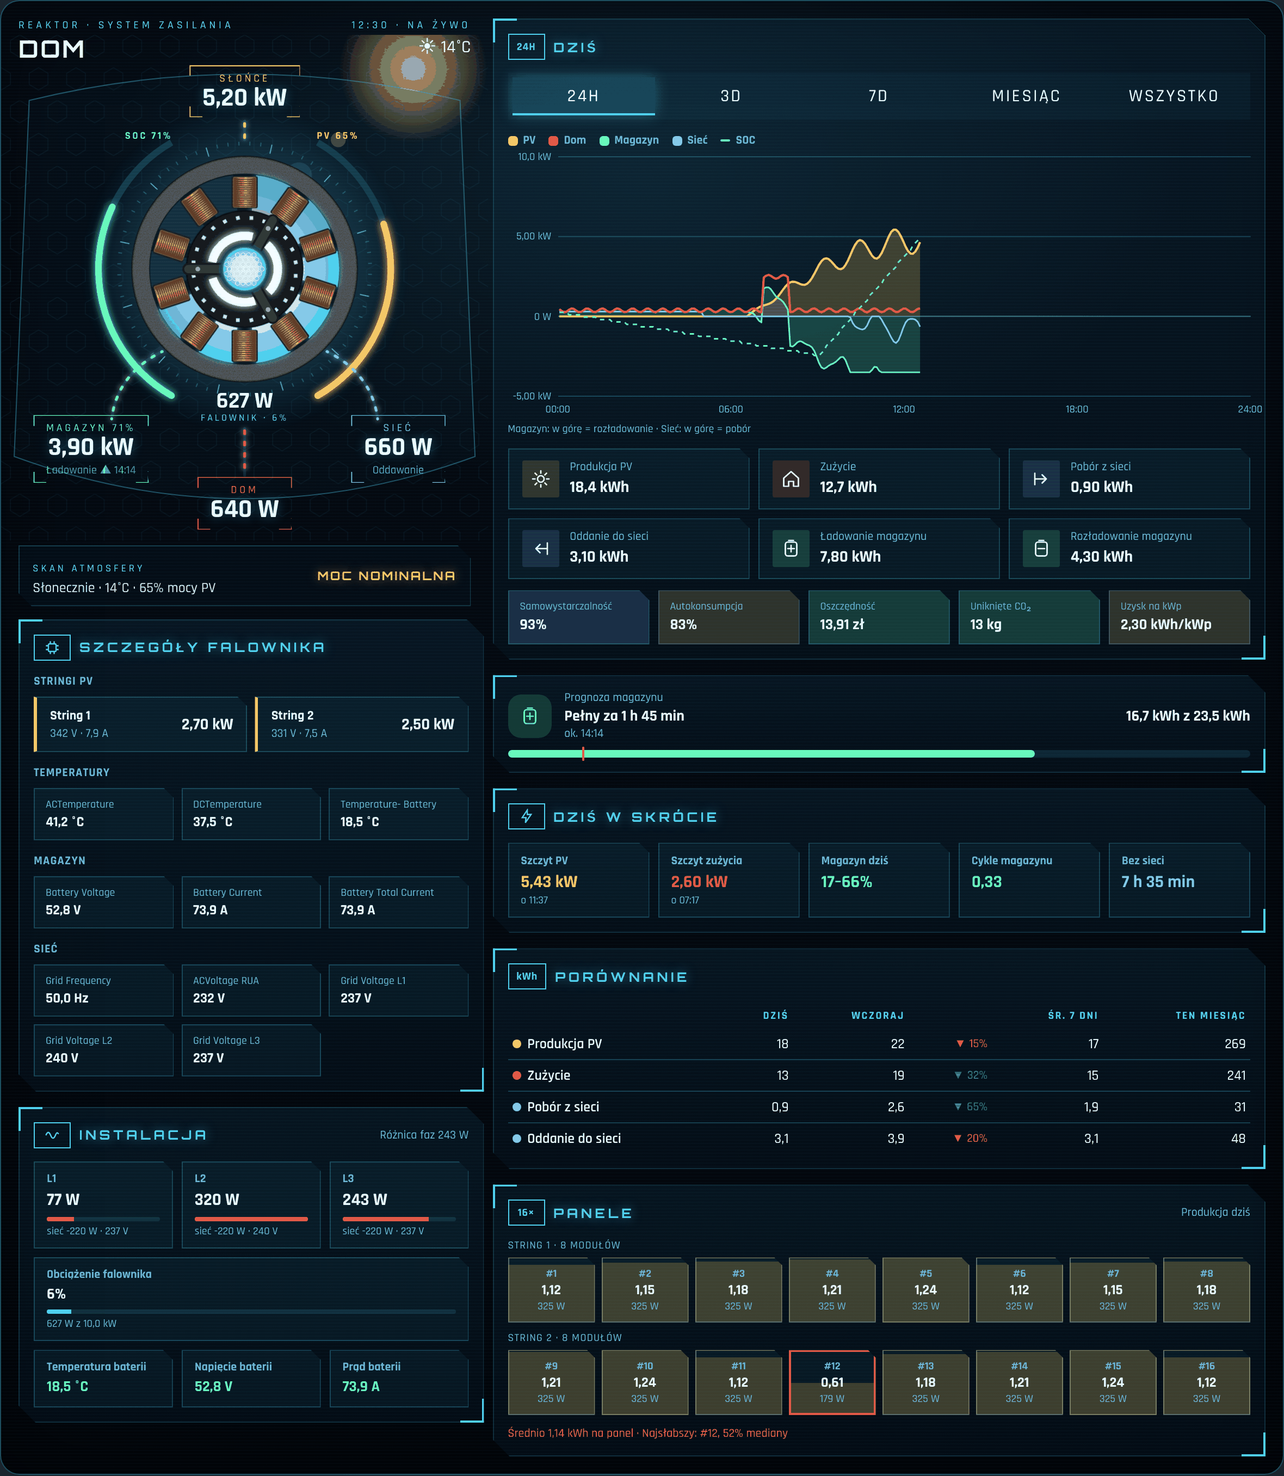
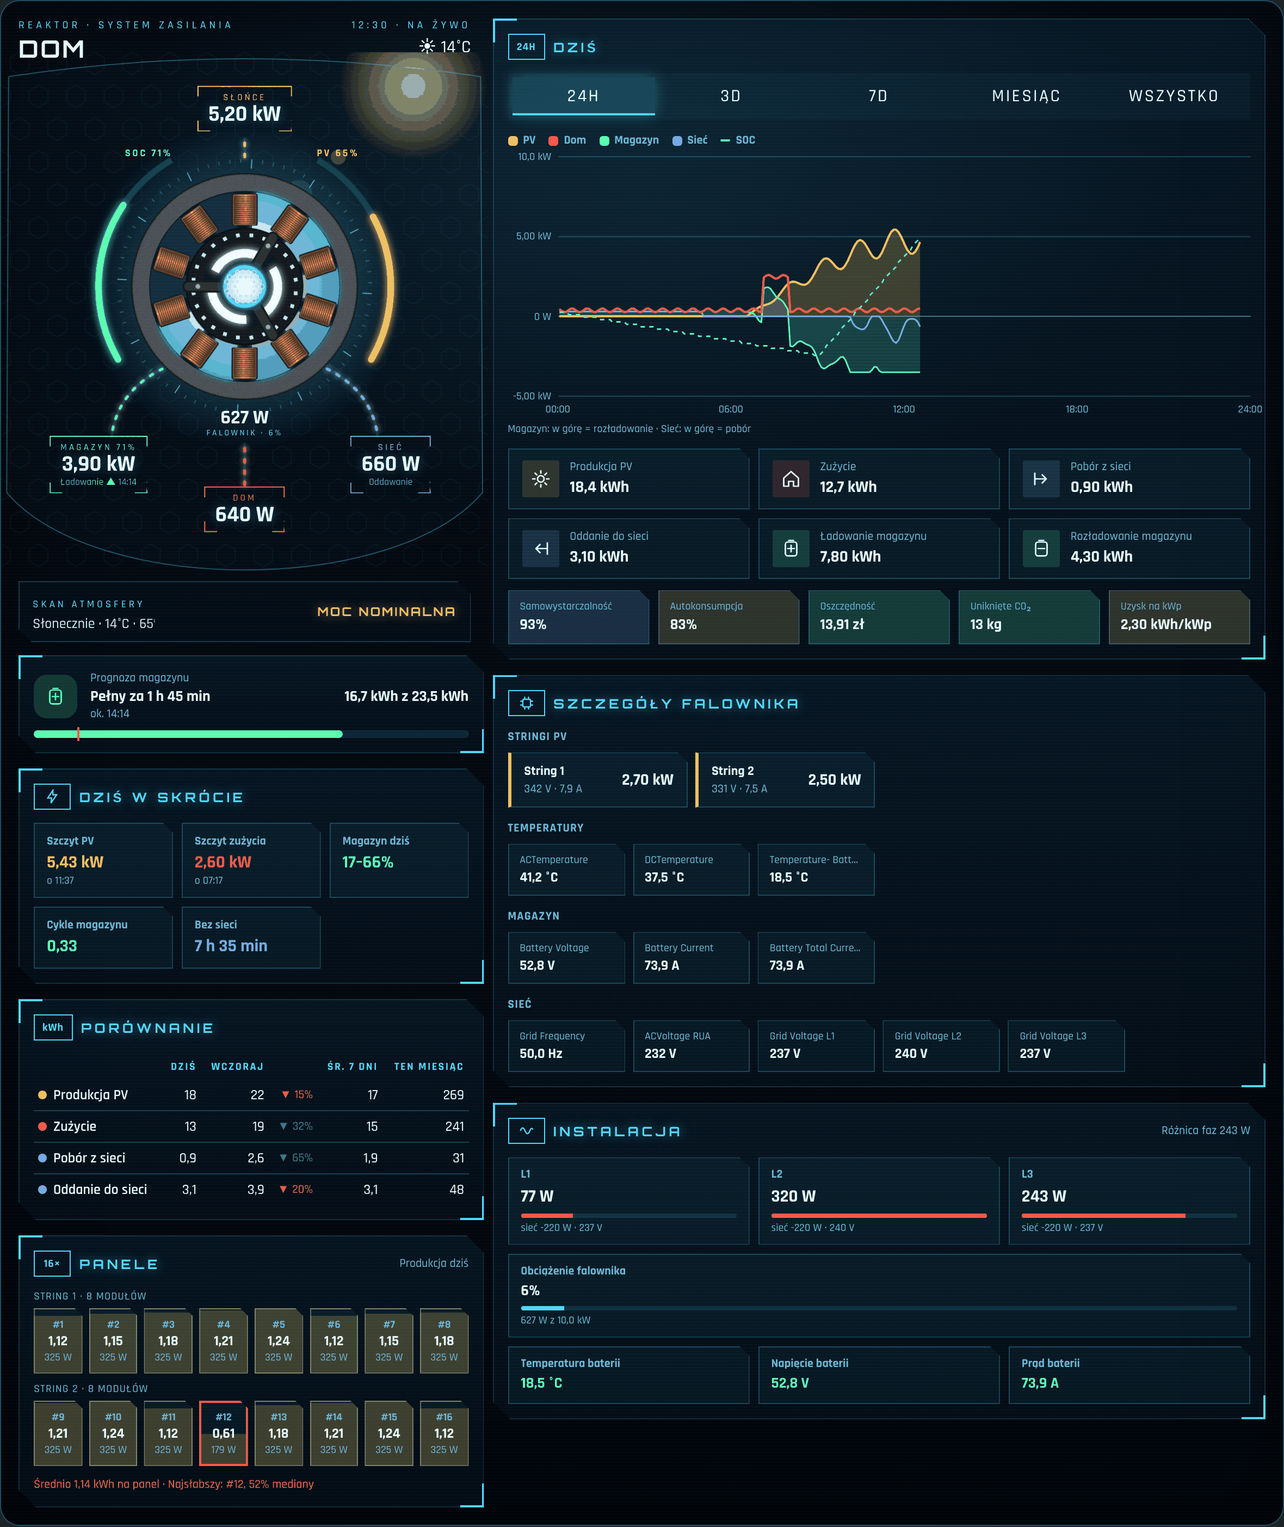
Reactor: visor frame and readouts scale together
The readouts are sized in the visor's container units and the frame runs
below the home readout, so nothing crosses at any card width.

Claude-Session: https://claude.ai/code/session_0152SgGeW2oeSktbBVvrriod

diff --git a/solar-flow-card.js b/solar-flow-card.js
@@ -3436,7 +3436,7 @@ function reactorWeather(m) {
   } else if (clear) {
     g += '<circle class="rx-sun" cx="440" cy="36" r="80" fill="url(#rx-flare)"/><circle cx="360" cy="112" r="8" fill="#ffe7b0" opacity=".22"/><circle cx="318" cy="150" r="14" fill="#9fe6ff" opacity=".1"/>';
   }
-  if (w?.grey) g += `<rect width="520" height="540" fill="#7d8a99" opacity="${(w.grey * 0.35).toFixed(2)}"/>`;
+  if (w?.grey) g += `<rect width="520" height="560" fill="#7d8a99" opacity="${(w.grey * 0.35).toFixed(2)}"/>`;
   if (w?.fog) g += '<g class="rx-fog"><ellipse cx="160" cy="190" rx="260" ry="60" fill="url(#rx-haze)"/><ellipse cx="380" cy="390" rx="280" ry="70" fill="url(#rx-haze)"/></g>';
   if (w?.rain) {
     const n = w.rain > 1 ? 60 : 32;
@@ -3445,9 +3445,9 @@ function reactorWeather(m) {
   }
   if (w?.snow) {
     glass += `<g class="rx-snow">${Array.from({ length: 36 }, (_, i) => `<circle style="--d:-${((i * 0.53) % 7).toFixed(2)}s" cx="${(i * 131) % 520}" cy="${(i * 53) % 300}" r="${i % 3 ? 1.5 : 2.3}"/>`).join("")}</g>`;
-    glass += '<rect width="520" height="540" fill="url(#rx-frost)"/>';
+    glass += '<rect width="520" height="560" fill="url(#rx-frost)"/>';
   }
-  if (w?.lightning) glass += '<rect class="rx-flash" width="520" height="540" fill="#dfe9ff"/>';
+  if (w?.lightning) glass += '<rect class="rx-flash" width="520" height="560" fill="#dfe9ff"/>';
   return { phase, sky: g, glass };
 }
 
@@ -3479,7 +3479,7 @@ function renderReactor(m) {
     ? [t.weatherNames?.[w.condition] || w.condition, isNum(w.temperature) ? `${formatNumber(w.temperature, locale, 0)}${w.unit}` : "", config.showSolar ? fill(t.reactorPvShare, { pct }) : ""].filter(Boolean).map(escapeHtml).join(" · ")
     : liveSentence(m) || escapeHtml(config.showSolar ? fill(t.reactorPvShare, { pct }) : t.reactorStandby);
   const ticks = Array.from({ length: 72 }, (_, i) => `<line x1="${cx}" y1="${cy - 136}" x2="${cx}" y2="${cy - 136 + (i % 6 ? 4 : 10)}" transform="rotate(${i * 5} ${cx} ${cy})" opacity="${i % 6 ? 0.35 : 0.8}"/>`).join("");
-  const pos = (x, y) => `left:${((x / 520) * 100).toFixed(2)}%;top:${((y / 540) * 100).toFixed(2)}%`;
+  const pos = (x, y) => `left:${((x / 520) * 100).toFixed(2)}%;top:${((y / 560) * 100).toFixed(2)}%`;
   const node = (cls, x, y, label, value, note, attr) => `
     <button class="rx-node ${cls}" style="${pos(x, y)}" ${attr}>
       <i></i><small>${escapeHtml(label)}</small><b>${escapeHtml(value)}</b>${note ? `<em>${escapeHtml(note)}</em>` : ""}
@@ -3497,7 +3497,7 @@ function renderReactor(m) {
           ${w ? `<button class="rx-wx" ${entityAttr(w.entityId)}>${escapeHtml(REACTOR_WEATHER_ICON[w.condition] || "")} ${isNum(w.temperature) ? escapeHtml(`${formatNumber(w.temperature, locale, 0)}${w.unit}`) : ""}</button>` : ""}</div>
       </header>
       <div class="rx-visor">
-        <svg viewBox="0 0 520 540" preserveAspectRatio="xMidYMid slice" aria-hidden="true">
+        <svg viewBox="0 0 520 560" preserveAspectRatio="xMidYMid slice" aria-hidden="true">
           <defs>
             <linearGradient id="rx-cu" x1="0" y1="0" x2="1" y2="0"><stop offset="0" stop-color="#6b2f0e"/><stop offset=".35" stop-color="#c9773d"/><stop offset=".55" stop-color="#e8a36a"/><stop offset="1" stop-color="#6b2f0e"/></linearGradient>
             <radialGradient id="rx-seg" cx="260" cy="250" r="101" gradientUnits="userSpaceOnUse"><stop offset=".3" stop-color="#fff"/><stop offset=".62" stop-color="#bfefff"/><stop offset="1" stop-color="#4cc2ff"/></radialGradient>
@@ -3511,8 +3511,8 @@ function renderReactor(m) {
             <filter id="rx-tex"><feTurbulence type="fractalNoise" baseFrequency="1.2" numOctaves="2" result="n"/><feColorMatrix in="n" values="0 0 0 0 .35  0 0 0 0 .38  0 0 0 0 .42  0 0 0 .55 0"/><feComposite in2="SourceGraphic" operator="in"/></filter>
           </defs>
           ${sky.sky}
-          <rect width="520" height="540" fill="url(#rx-hex)"/>
-          <path class="rx-frame" pathLength="1" d="M14 30Q260 -10 506 30L510 470Q260 600 10 470Z"/>
+          <rect width="520" height="560" fill="url(#rx-hex)"/>
+          <path class="rx-frame" pathLength="1" d="M8 26Q260 -12 512 26L514 470C420 580 100 580 6 470Z"/>
           <g class="rx-boot-ticks"><g class="rx-ticks">${ticks}</g></g>
           ${/* The gauges stop above the battery and grid flow lines. */ ""}
           ${config.showBattery ? `<path class="rx-track" d="${arc(156, 330, 240)}"/>${soc >= 1 ? `<path class="rx-gauge battery" pathLength="1" d="${arc(156, 240, 240 + 0.9 * soc)}"/>` : ""}` : ""}
@@ -3523,16 +3523,16 @@ function renderReactor(m) {
             ${config.showSolar ? flowPath("M260 92 L260 112", live.solarActive, false, "pv") : ""}
             ${config.showBattery ? flowPath("M118 410 Q124 362 172 338", live.chargeActive || live.dischargeActive, live.chargeActive, "battery") : ""}
             ${flowPath("M402 410 Q396 362 348 338", live.importActive || live.exportActive, live.exportActive, "grid")}
-            ${flowPath("M260 420 L260 470", live.loadActive, false, "load")}
+            ${flowPath("M260 418 L260 462", live.loadActive, false, "load")}
           </g>
           <g class="rx-reactor">${reactorCore(heat, live)}</g>
           ${isNum(m.intro) ? `<g class="rx-bootseg">${Array.from({ length: 10 }, (_, i) => { const a = i * 36; const P2 = (rr, aa) => P(rr, aa).map((v) => v.toFixed(1)).join(" "); return `<path style="--i:${i}" d="M${P2(101, a + 7)}A101 101 0 0 1 ${P2(101, a + 29)}L${P2(63, a + 29)}A63 63 0 0 0 ${P2(63, a + 7)}Z"/>`; }).join("")}</g>` : ""}
           ${sky.glass}
         </svg>
         ${config.showSolar ? node("pv", 260, 60, t.sun, formatPower(live.solar, locale), "", entityAttr(m.ids.live.solar)) : ""}
-        ${config.showBattery ? node("battery", 96, 442, batteryLabel(m), formatPower(batteryFlow, locale), [batteryStatus(m), batteryWhenShort(m)].filter(Boolean).join(" "), entityAttr(batteryEntityId(m))) : ""}
-        ${node("grid", 424, 442, t.grid, formatPower(gridValue, locale), gridStatus(m), entityAttr(gridEntityId(m)))}
-        ${node("load", 260, 500, t.home, formatPower(live.load, locale), "", entityAttr(m.ids.live.load))}
+        ${config.showBattery ? node("battery", 104, 440, batteryLabel(m), formatPower(batteryFlow, locale), [batteryStatus(m), batteryWhenShort(m)].filter(Boolean).join(" "), entityAttr(batteryEntityId(m))) : ""}
+        ${node("grid", 416, 440, t.grid, formatPower(gridValue, locale), gridStatus(m), entityAttr(gridEntityId(m)))}
+        ${node("load", 260, 488, t.home, formatPower(live.load, locale), "", entityAttr(m.ids.live.load))}
         <button class="rx-inv" style="${pos(260, 396)}" data-action="inverter" title="${escapeHtml(t.inverterDetails)}">
           <b>${escapeHtml(formatPower(hub.power, locale))}</b><small>${escapeHtml(t.inverter)}${isNum(hub.share) ? ` · ${escapeHtml(formatPercent(hub.share, locale))}` : ""}</small>
         </button>
@@ -4443,7 +4443,9 @@ const THEME_CSS = {
     .rx-right { text-align: right; }
     .rx-wx { margin-top: 3px; padding: 0; border: 0; background: none; color: #ffd27a; font: 600 13px var(--sfc-font); cursor: pointer; }
     .night .rx-wx { color: #9cc8ff; }
-    .rx-visor { position: relative; aspect-ratio: 520 / 540; margin: -10px -16px 0; }
+    /* The readouts scale with the visor (cqw of the visor), so they keep their
+       place inside the frame at every card width. */
+    .rx-visor { position: relative; aspect-ratio: 520 / 560; margin: -10px -16px 0; container-type: inline-size; }
     .rx-visor > svg { position: absolute; inset: 0; width: 100%; height: 100%; }
     .rx-frame { fill: rgba(79,216,255,.025); stroke: rgba(79,216,255,.35); stroke-width: 1.2; }
     .rx-ticks { stroke: #4fd8ff; stroke-width: 1; transform-box: view-box; transform-origin: 260px 250px; animation: rx-spin var(--spin, 60s) linear infinite; animation-delay: var(--p-spin, 0s); }
@@ -4498,18 +4500,18 @@ const THEME_CSS = {
     @keyframes rx-flashseg { 0% { opacity: 0; } 30% { opacity: .9; } 100% { opacity: 0; } }
     @keyframes rx-in { from { opacity: 0; } to { opacity: 1; } }
     @keyframes rx-type { from { clip-path: inset(0 100% 0 0); } to { clip-path: inset(0 0 0 0); } }
-    .rx-node, .rx-inv { position: absolute; transform: translate(-50%, -50%); display: grid; justify-items: center; padding: 6px 12px 5px; border: 0; background: none; color: inherit; cursor: pointer; white-space: nowrap; }
+    .rx-node, .rx-inv { position: absolute; transform: translate(-50%, -50%); display: grid; justify-items: center; padding: 1.15cqw 2.3cqw 1cqw; border: 0; background: none; color: inherit; cursor: pointer; white-space: nowrap; }
     .rx-node::before, .rx-node::after { content: ""; position: absolute; inset: 0; pointer-events: none; border: 1.6px solid var(--c);
       clip-path: polygon(0 0, 12px 0, 12px 1.6px, 1.6px 1.6px, 1.6px 10px, 0 10px, 0 calc(100% - 10px), 1.6px calc(100% - 10px), 1.6px calc(100% - 1.6px), 12px calc(100% - 1.6px), 12px 100%, 0 100%,
         0 0, 100% 0, 100% 10px, calc(100% - 1.6px) 10px, calc(100% - 1.6px) 1.6px, calc(100% - 12px) 1.6px, calc(100% - 12px) 0,
         100% 100%, calc(100% - 12px) 100%, calc(100% - 12px) calc(100% - 1.6px), calc(100% - 1.6px) calc(100% - 1.6px), calc(100% - 1.6px) calc(100% - 10px), 100% calc(100% - 10px)); }
     .rx-node::after { display: none; }
     .rx-node.pv { --c: var(--sfc-pv); } .rx-node.battery { --c: var(--sfc-battery); } .rx-node.grid { --c: var(--sfc-grid); } .rx-node.load { --c: var(--sfc-load); }
-    .rx-node small { color: var(--c); font-size: 10px; letter-spacing: .24em; text-transform: uppercase; }
-    .rx-node b { font: 700 clamp(17px, 4.4cqw, 24px)/1.05 var(--sfc-num-font); color: #e9fbff; text-shadow: 0 0 10px rgba(79,216,255,.35); }
-    .rx-node em { color: var(--c); opacity: .8; font-size: 10.5px; font-style: normal; }
-    .rx-inv b { font: 700 clamp(16px, 4cqw, 21px)/1 var(--sfc-num-font); color: #e9fbff; }
-    .rx-inv small { color: #4fd8ff; font-size: 9px; letter-spacing: .22em; text-transform: uppercase; }
+    .rx-node small { color: var(--c); font-size: max(7px, 1.9cqw); letter-spacing: .24em; text-transform: uppercase; }
+    .rx-node b { font: 700 max(13px, 4.6cqw)/1.05 var(--sfc-num-font); color: #e9fbff; text-shadow: 0 0 10px rgba(79,216,255,.35); }
+    .rx-node em { color: var(--c); opacity: .8; font-size: max(7.5px, 2cqw); font-style: normal; }
+    .rx-inv b { font: 700 max(12px, 4cqw)/1 var(--sfc-num-font); color: #e9fbff; }
+    .rx-inv small { color: #4fd8ff; font-size: max(7px, 1.75cqw); letter-spacing: .22em; text-transform: uppercase; }
     .rx-scan { position: relative; z-index: 1; display: flex; justify-content: space-between; align-items: center; gap: 12px; margin-top: 4px; padding: 8px 12px;
       border: 1px solid rgba(79,216,255,.22); background: rgba(4,16,26,.7);
       clip-path: polygon(0 0, calc(100% - 12px) 0, 100% 12px, 100% 100%, 12px 100%, 0 calc(100% - 12px)); }

diff --git a/src/50-themes.js b/src/50-themes.js
@@ -1146,7 +1146,7 @@ function reactorWeather(m) {
   } else if (clear) {
     g += '<circle class="rx-sun" cx="440" cy="36" r="80" fill="url(#rx-flare)"/><circle cx="360" cy="112" r="8" fill="#ffe7b0" opacity=".22"/><circle cx="318" cy="150" r="14" fill="#9fe6ff" opacity=".1"/>';
   }
-  if (w?.grey) g += `<rect width="520" height="540" fill="#7d8a99" opacity="${(w.grey * 0.35).toFixed(2)}"/>`;
+  if (w?.grey) g += `<rect width="520" height="560" fill="#7d8a99" opacity="${(w.grey * 0.35).toFixed(2)}"/>`;
   if (w?.fog) g += '<g class="rx-fog"><ellipse cx="160" cy="190" rx="260" ry="60" fill="url(#rx-haze)"/><ellipse cx="380" cy="390" rx="280" ry="70" fill="url(#rx-haze)"/></g>';
   if (w?.rain) {
     const n = w.rain > 1 ? 60 : 32;
@@ -1155,9 +1155,9 @@ function reactorWeather(m) {
   }
   if (w?.snow) {
     glass += `<g class="rx-snow">${Array.from({ length: 36 }, (_, i) => `<circle style="--d:-${((i * 0.53) % 7).toFixed(2)}s" cx="${(i * 131) % 520}" cy="${(i * 53) % 300}" r="${i % 3 ? 1.5 : 2.3}"/>`).join("")}</g>`;
-    glass += '<rect width="520" height="540" fill="url(#rx-frost)"/>';
+    glass += '<rect width="520" height="560" fill="url(#rx-frost)"/>';
   }
-  if (w?.lightning) glass += '<rect class="rx-flash" width="520" height="540" fill="#dfe9ff"/>';
+  if (w?.lightning) glass += '<rect class="rx-flash" width="520" height="560" fill="#dfe9ff"/>';
   return { phase, sky: g, glass };
 }
 
@@ -1189,7 +1189,7 @@ function renderReactor(m) {
     ? [t.weatherNames?.[w.condition] || w.condition, isNum(w.temperature) ? `${formatNumber(w.temperature, locale, 0)}${w.unit}` : "", config.showSolar ? fill(t.reactorPvShare, { pct }) : ""].filter(Boolean).map(escapeHtml).join(" · ")
     : liveSentence(m) || escapeHtml(config.showSolar ? fill(t.reactorPvShare, { pct }) : t.reactorStandby);
   const ticks = Array.from({ length: 72 }, (_, i) => `<line x1="${cx}" y1="${cy - 136}" x2="${cx}" y2="${cy - 136 + (i % 6 ? 4 : 10)}" transform="rotate(${i * 5} ${cx} ${cy})" opacity="${i % 6 ? 0.35 : 0.8}"/>`).join("");
-  const pos = (x, y) => `left:${((x / 520) * 100).toFixed(2)}%;top:${((y / 540) * 100).toFixed(2)}%`;
+  const pos = (x, y) => `left:${((x / 520) * 100).toFixed(2)}%;top:${((y / 560) * 100).toFixed(2)}%`;
   const node = (cls, x, y, label, value, note, attr) => `
     <button class="rx-node ${cls}" style="${pos(x, y)}" ${attr}>
       <i></i><small>${escapeHtml(label)}</small><b>${escapeHtml(value)}</b>${note ? `<em>${escapeHtml(note)}</em>` : ""}
@@ -1207,7 +1207,7 @@ function renderReactor(m) {
           ${w ? `<button class="rx-wx" ${entityAttr(w.entityId)}>${escapeHtml(REACTOR_WEATHER_ICON[w.condition] || "")} ${isNum(w.temperature) ? escapeHtml(`${formatNumber(w.temperature, locale, 0)}${w.unit}`) : ""}</button>` : ""}</div>
       </header>
       <div class="rx-visor">
-        <svg viewBox="0 0 520 540" preserveAspectRatio="xMidYMid slice" aria-hidden="true">
+        <svg viewBox="0 0 520 560" preserveAspectRatio="xMidYMid slice" aria-hidden="true">
           <defs>
             <linearGradient id="rx-cu" x1="0" y1="0" x2="1" y2="0"><stop offset="0" stop-color="#6b2f0e"/><stop offset=".35" stop-color="#c9773d"/><stop offset=".55" stop-color="#e8a36a"/><stop offset="1" stop-color="#6b2f0e"/></linearGradient>
             <radialGradient id="rx-seg" cx="260" cy="250" r="101" gradientUnits="userSpaceOnUse"><stop offset=".3" stop-color="#fff"/><stop offset=".62" stop-color="#bfefff"/><stop offset="1" stop-color="#4cc2ff"/></radialGradient>
@@ -1221,8 +1221,8 @@ function renderReactor(m) {
             <filter id="rx-tex"><feTurbulence type="fractalNoise" baseFrequency="1.2" numOctaves="2" result="n"/><feColorMatrix in="n" values="0 0 0 0 .35  0 0 0 0 .38  0 0 0 0 .42  0 0 0 .55 0"/><feComposite in2="SourceGraphic" operator="in"/></filter>
           </defs>
           ${sky.sky}
-          <rect width="520" height="540" fill="url(#rx-hex)"/>
-          <path class="rx-frame" pathLength="1" d="M14 30Q260 -10 506 30L510 470Q260 600 10 470Z"/>
+          <rect width="520" height="560" fill="url(#rx-hex)"/>
+          <path class="rx-frame" pathLength="1" d="M8 26Q260 -12 512 26L514 470C420 580 100 580 6 470Z"/>
           <g class="rx-boot-ticks"><g class="rx-ticks">${ticks}</g></g>
           ${/* The gauges stop above the battery and grid flow lines. */ ""}
           ${config.showBattery ? `<path class="rx-track" d="${arc(156, 330, 240)}"/>${soc >= 1 ? `<path class="rx-gauge battery" pathLength="1" d="${arc(156, 240, 240 + 0.9 * soc)}"/>` : ""}` : ""}
@@ -1233,16 +1233,16 @@ function renderReactor(m) {
             ${config.showSolar ? flowPath("M260 92 L260 112", live.solarActive, false, "pv") : ""}
             ${config.showBattery ? flowPath("M118 410 Q124 362 172 338", live.chargeActive || live.dischargeActive, live.chargeActive, "battery") : ""}
             ${flowPath("M402 410 Q396 362 348 338", live.importActive || live.exportActive, live.exportActive, "grid")}
-            ${flowPath("M260 420 L260 470", live.loadActive, false, "load")}
+            ${flowPath("M260 418 L260 462", live.loadActive, false, "load")}
           </g>
           <g class="rx-reactor">${reactorCore(heat, live)}</g>
           ${isNum(m.intro) ? `<g class="rx-bootseg">${Array.from({ length: 10 }, (_, i) => { const a = i * 36; const P2 = (rr, aa) => P(rr, aa).map((v) => v.toFixed(1)).join(" "); return `<path style="--i:${i}" d="M${P2(101, a + 7)}A101 101 0 0 1 ${P2(101, a + 29)}L${P2(63, a + 29)}A63 63 0 0 0 ${P2(63, a + 7)}Z"/>`; }).join("")}</g>` : ""}
           ${sky.glass}
         </svg>
         ${config.showSolar ? node("pv", 260, 60, t.sun, formatPower(live.solar, locale), "", entityAttr(m.ids.live.solar)) : ""}
-        ${config.showBattery ? node("battery", 96, 442, batteryLabel(m), formatPower(batteryFlow, locale), [batteryStatus(m), batteryWhenShort(m)].filter(Boolean).join(" "), entityAttr(batteryEntityId(m))) : ""}
-        ${node("grid", 424, 442, t.grid, formatPower(gridValue, locale), gridStatus(m), entityAttr(gridEntityId(m)))}
-        ${node("load", 260, 500, t.home, formatPower(live.load, locale), "", entityAttr(m.ids.live.load))}
+        ${config.showBattery ? node("battery", 104, 440, batteryLabel(m), formatPower(batteryFlow, locale), [batteryStatus(m), batteryWhenShort(m)].filter(Boolean).join(" "), entityAttr(batteryEntityId(m))) : ""}
+        ${node("grid", 416, 440, t.grid, formatPower(gridValue, locale), gridStatus(m), entityAttr(gridEntityId(m)))}
+        ${node("load", 260, 488, t.home, formatPower(live.load, locale), "", entityAttr(m.ids.live.load))}
         <button class="rx-inv" style="${pos(260, 396)}" data-action="inverter" title="${escapeHtml(t.inverterDetails)}">
           <b>${escapeHtml(formatPower(hub.power, locale))}</b><small>${escapeHtml(t.inverter)}${isNum(hub.share) ? ` · ${escapeHtml(formatPercent(hub.share, locale))}` : ""}</small>
         </button>

diff --git a/src/60-styles.js b/src/60-styles.js
@@ -883,7 +883,9 @@ const THEME_CSS = {
     .rx-right { text-align: right; }
     .rx-wx { margin-top: 3px; padding: 0; border: 0; background: none; color: #ffd27a; font: 600 13px var(--sfc-font); cursor: pointer; }
     .night .rx-wx { color: #9cc8ff; }
-    .rx-visor { position: relative; aspect-ratio: 520 / 540; margin: -10px -16px 0; }
+    /* The readouts scale with the visor (cqw of the visor), so they keep their
+       place inside the frame at every card width. */
+    .rx-visor { position: relative; aspect-ratio: 520 / 560; margin: -10px -16px 0; container-type: inline-size; }
     .rx-visor > svg { position: absolute; inset: 0; width: 100%; height: 100%; }
     .rx-frame { fill: rgba(79,216,255,.025); stroke: rgba(79,216,255,.35); stroke-width: 1.2; }
     .rx-ticks { stroke: #4fd8ff; stroke-width: 1; transform-box: view-box; transform-origin: 260px 250px; animation: rx-spin var(--spin, 60s) linear infinite; animation-delay: var(--p-spin, 0s); }
@@ -938,18 +940,18 @@ const THEME_CSS = {
     @keyframes rx-flashseg { 0% { opacity: 0; } 30% { opacity: .9; } 100% { opacity: 0; } }
     @keyframes rx-in { from { opacity: 0; } to { opacity: 1; } }
     @keyframes rx-type { from { clip-path: inset(0 100% 0 0); } to { clip-path: inset(0 0 0 0); } }
-    .rx-node, .rx-inv { position: absolute; transform: translate(-50%, -50%); display: grid; justify-items: center; padding: 6px 12px 5px; border: 0; background: none; color: inherit; cursor: pointer; white-space: nowrap; }
+    .rx-node, .rx-inv { position: absolute; transform: translate(-50%, -50%); display: grid; justify-items: center; padding: 1.15cqw 2.3cqw 1cqw; border: 0; background: none; color: inherit; cursor: pointer; white-space: nowrap; }
     .rx-node::before, .rx-node::after { content: ""; position: absolute; inset: 0; pointer-events: none; border: 1.6px solid var(--c);
       clip-path: polygon(0 0, 12px 0, 12px 1.6px, 1.6px 1.6px, 1.6px 10px, 0 10px, 0 calc(100% - 10px), 1.6px calc(100% - 10px), 1.6px calc(100% - 1.6px), 12px calc(100% - 1.6px), 12px 100%, 0 100%,
         0 0, 100% 0, 100% 10px, calc(100% - 1.6px) 10px, calc(100% - 1.6px) 1.6px, calc(100% - 12px) 1.6px, calc(100% - 12px) 0,
         100% 100%, calc(100% - 12px) 100%, calc(100% - 12px) calc(100% - 1.6px), calc(100% - 1.6px) calc(100% - 1.6px), calc(100% - 1.6px) calc(100% - 10px), 100% calc(100% - 10px)); }
     .rx-node::after { display: none; }
     .rx-node.pv { --c: var(--sfc-pv); } .rx-node.battery { --c: var(--sfc-battery); } .rx-node.grid { --c: var(--sfc-grid); } .rx-node.load { --c: var(--sfc-load); }
-    .rx-node small { color: var(--c); font-size: 10px; letter-spacing: .24em; text-transform: uppercase; }
-    .rx-node b { font: 700 clamp(17px, 4.4cqw, 24px)/1.05 var(--sfc-num-font); color: #e9fbff; text-shadow: 0 0 10px rgba(79,216,255,.35); }
-    .rx-node em { color: var(--c); opacity: .8; font-size: 10.5px; font-style: normal; }
-    .rx-inv b { font: 700 clamp(16px, 4cqw, 21px)/1 var(--sfc-num-font); color: #e9fbff; }
-    .rx-inv small { color: #4fd8ff; font-size: 9px; letter-spacing: .22em; text-transform: uppercase; }
+    .rx-node small { color: var(--c); font-size: max(7px, 1.9cqw); letter-spacing: .24em; text-transform: uppercase; }
+    .rx-node b { font: 700 max(13px, 4.6cqw)/1.05 var(--sfc-num-font); color: #e9fbff; text-shadow: 0 0 10px rgba(79,216,255,.35); }
+    .rx-node em { color: var(--c); opacity: .8; font-size: max(7.5px, 2cqw); font-style: normal; }
+    .rx-inv b { font: 700 max(12px, 4cqw)/1 var(--sfc-num-font); color: #e9fbff; }
+    .rx-inv small { color: #4fd8ff; font-size: max(7px, 1.75cqw); letter-spacing: .22em; text-transform: uppercase; }
     .rx-scan { position: relative; z-index: 1; display: flex; justify-content: space-between; align-items: center; gap: 12px; margin-top: 4px; padding: 8px 12px;
       border: 1px solid rgba(79,216,255,.22); background: rgba(4,16,26,.7);
       clip-path: polygon(0 0, calc(100% - 12px) 0, 100% 12px, 100% 100%, 12px 100%, 0 calc(100% - 12px)); }

diff --git a/CHANGELOG.md b/CHANGELOG.md
@@ -20,6 +20,7 @@ Everything from the 1.3.0 and 1.4.0 betas, now stable.
 - Animations continue across re-renders instead of starting over (Reactor, as Foundation).
 - The comparison table stays in its column on narrower wide cards.
 - Wide layout in Home Assistant: sections no longer all end up in the right column.
+- Reactor: the visor frame and the readouts scale together, so the frame never cuts through the sun, battery, grid or home readouts, at any card width.
 
 `show_weather` / `weather_entity` now apply to the Reactor theme too.
 
